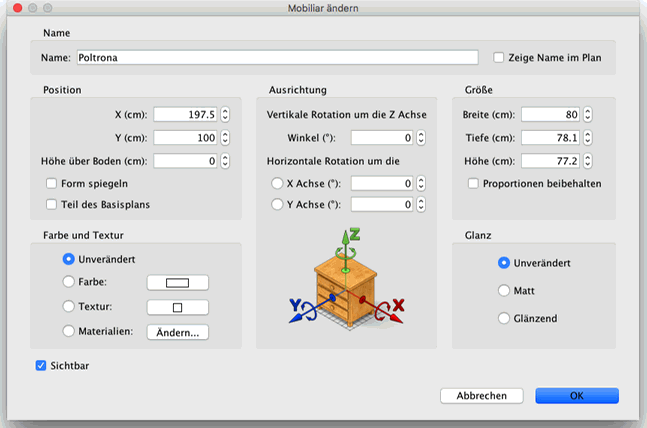
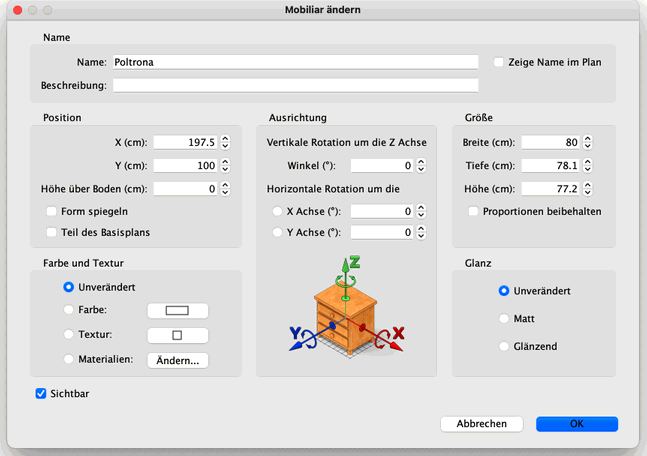
Updated help for description field

diff --git a/trunk/SweetHome3D/src/com/eteks/sweethome3d/viewcontroller/resources/help/en/editingFurniture.html b/trunk/SweetHome3D/src/com/eteks/sweethome3d/viewcontroller/resources/help/en/editingFurniture.html
@@ -109,7 +109,7 @@
 	  <p>A piece of furniture  may also be  edited thanks to its pane, by double-clicking on that piece in 
 	    the home plan or furniture list, or by choosing <i>Furniture &gt; Modify...</i> after selecting it.</p>
 	    <p align="center"><img src="images/editingFurniture.png" alt="Modify furniture"></p>
-	    <p>In the furniture pane, you may change its name, the abscissa (X) and 
+	    <p>In the furniture pane, you may change its name, its description, the abscissa (X) and 
           the ordinate (Y) of its center, the elevation of its bottom from the 
           floor, its width, its depth, its height, its color or its texture, its 
           shininess, its visibility, its rotation angles, whether its name should 
@@ -124,7 +124,9 @@
 	    <p>The <i>Furniture materials</i> pane displays the list of materials you can edit, and a 3D preview 
 	    of the color and texture changes you made, because materials may not always have  some clear or translated names 
 	    (like <i>bone2</i> instead of <i>mattress</i> or <i>flyellow</i> instead of <i>frame</i> in the previous figure). 
-      When necessary, you can also  rotate the object in the 3D preview with the mouse and  modify more than a material at the same time after selecting them in the list.</p></td>
+	    When necessary, you may modify more than a material at the same time after selecting them in the list and 
+	    rotate the piece of furniture with a mouse drag on the background of the 3D preview.
+	    If you click on a part of the piece in the preview, its matching material will be selected in the list.</p></td>
 	</tr>
 </table>
 <div id="taskbox">
